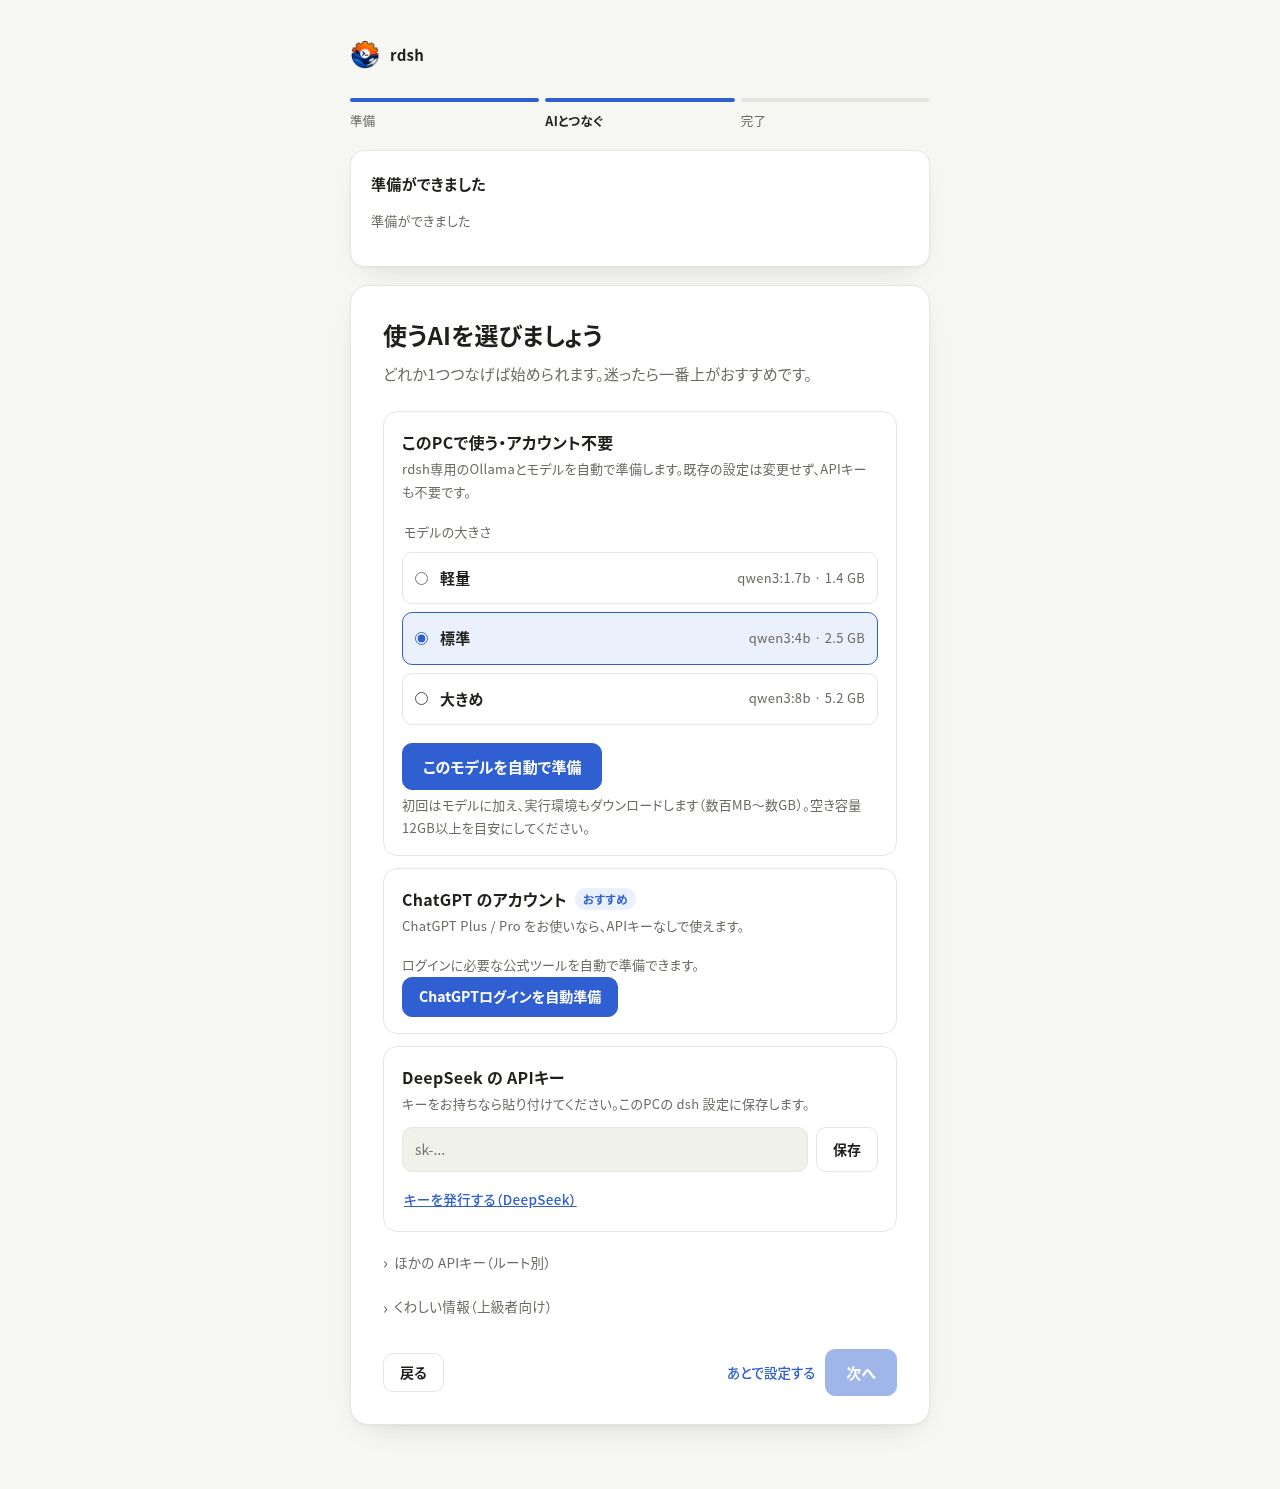
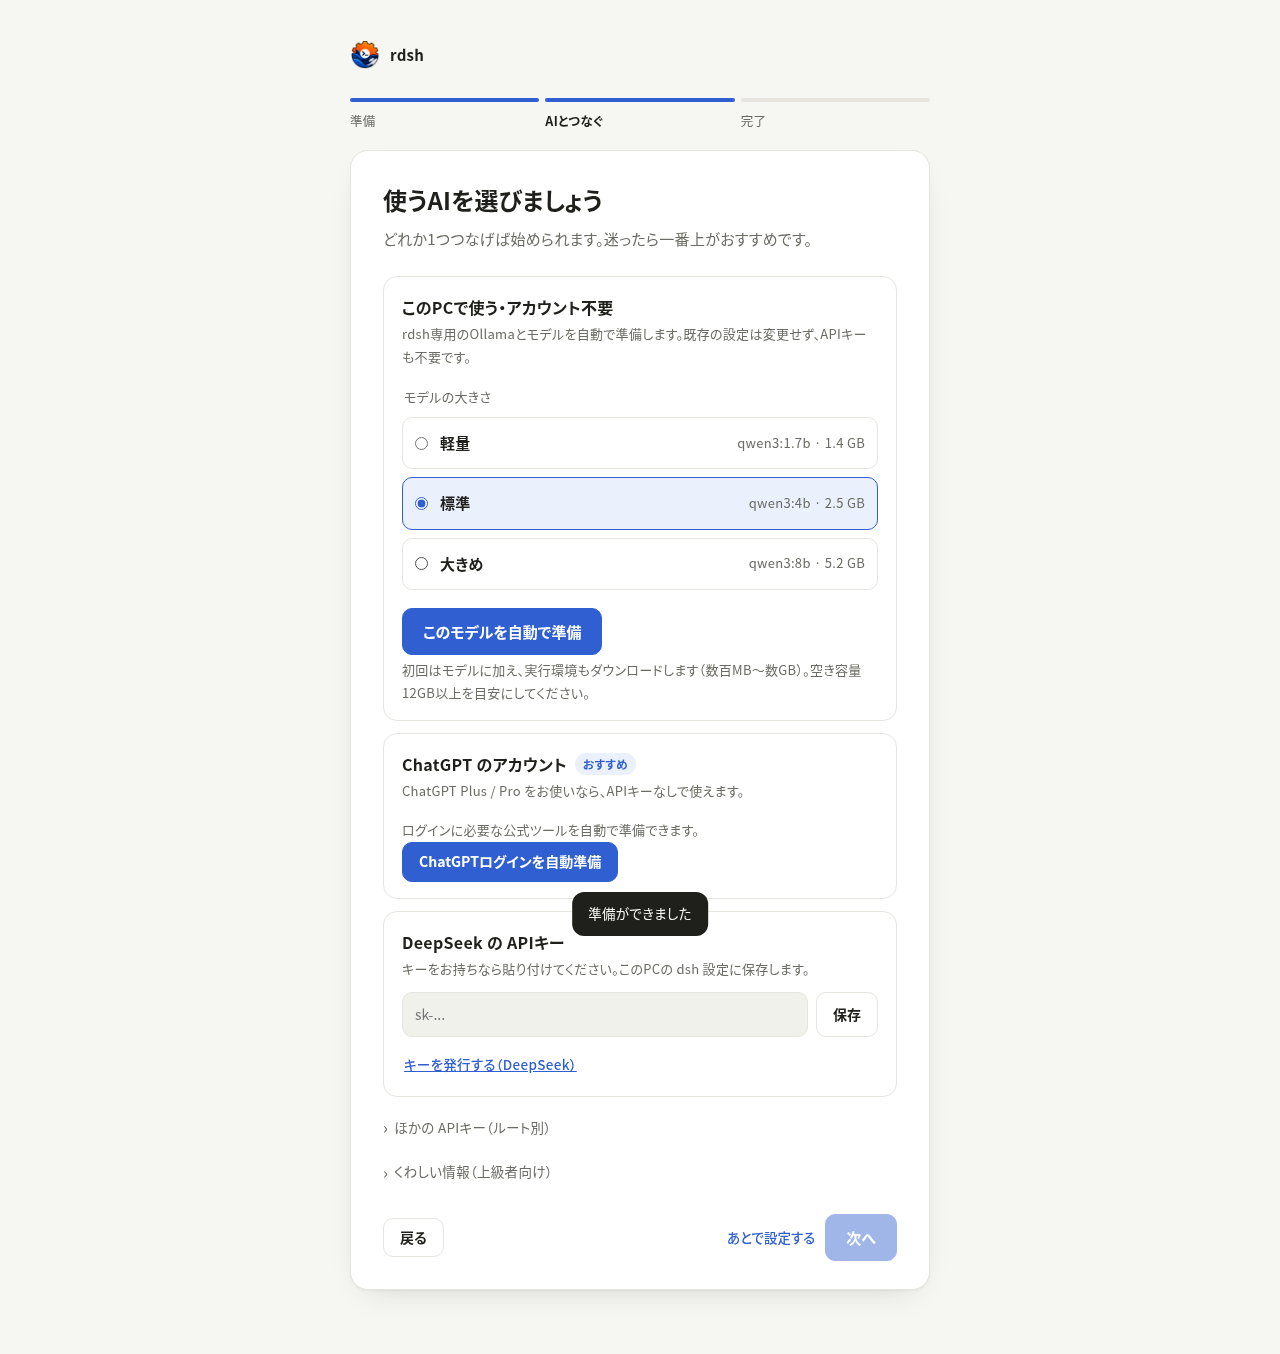
fix: guide fresh installations to the available web profile

diff --git a/src/setup.html b/src/setup.html
@@ -644,6 +644,7 @@ function renderFinish() {
   var starts = $("starts"); starts.replaceChildren();
   $("finish-cmd-hint").hidden = !env.dsh.found;
   $("finish-cmd").hidden = !env.dsh.found;
+  if ($("finish-cmd")) { var code = $("finish-cmd").querySelector("code"); if (code) code.textContent = env.tui ? "rdsh tui" : "rdsh --profile web"; }
   if (!connected) {
     var link = el("button", "primary", t("AIをつなぐ", "Connect an AI", "连接 AI"));
     link.onclick = function () { go("connect"); };
@@ -661,8 +662,8 @@ function renderFinish() {
   var chosenModel = window.rdshProvisionSelection && window.rdshProvisionSelection();
   if (env.desktop && !chosenModel) starts.append(startButton("desktop", t("DeepSeek Harness アプリを開く", "Open the DeepSeek Harness app", "打开 DeepSeek Harness 应用"), t("いちばん簡単です", "The easiest way", "最简单的方式"), true));
   if (env.dsh.found) {
-    if (!chosenModel || chosenModel.profiles.indexOf("tui") >= 0) starts.append(startButton("tui", t("ターミナルで会話をはじめる", "Chat in a terminal", "在终端中对话"), t("Codex や Claude Code と同じ使い方です", "Works like Codex or Claude Code", "用法与 Codex、Claude Code 相同"), !env.desktop || !!chosenModel));
-    if (!chosenModel || chosenModel.profiles.indexOf("web") >= 0) starts.append(startButton("web", t("ブラウザで使う", "Use it in your browser", "在浏览器中使用"), t("画面で操作したい方に", "If you prefer a visual interface", "适合喜欢图形界面的用户"), !!chosenModel && chosenModel.profiles.indexOf("tui") < 0));
+    if (env.tui && (!chosenModel || chosenModel.profiles.indexOf("tui") >= 0)) starts.append(startButton("tui", t("ターミナルで会話をはじめる", "Chat in a terminal", "在终端中对话"), t("Codex や Claude Code と同じ使い方です", "Works like Codex or Claude Code", "用法与 Codex、Claude Code 相同"), !env.desktop || !!chosenModel));
+    if (!chosenModel || chosenModel.profiles.indexOf("web") >= 0) starts.append(startButton("web", t("ブラウザで使う", "Use it in your browser", "在浏览器中使用"), t("画面で操作したい方に", "If you prefer a visual interface", "适合喜欢图形界面的用户"), !env.tui || (!!chosenModel && chosenModel.profiles.indexOf("tui") < 0)));
   }
   var model = (STATUS && STATUS.defaults || []).filter(function (d) { return d.state === "ok"; })[0];
   $("model-line").textContent = model ? t("使うモデル：", "Model: ", "使用模型：") + model.provider + " / " + model.model : "";

diff --git a/src/setup-provision.js b/src/setup-provision.js
@@ -92,7 +92,7 @@
     panel.hidden = !!(ENV && ENV.node && ENV.node.supported && ENV.dsh.found && ENV.pnpm);
     [runtimeButton, localButton, cloudButton, cloudSelect].forEach(function (button) { button.disabled = running || busy; });
     fieldset.disabled = running || busy;
-    progressBox.hidden = !running && !job.error && !job.ready;
+    progressBox.hidden = !running && !job.error;
     progress.hidden = !running;
     progressLabel.textContent = t.apply(null, phases[job.phase] || phases.preparing);
     cancel.hidden = !running; cancel.disabled = job.phase === "cancelling"; retry.hidden = running || !job.error || !lastRequest;
@@ -141,6 +141,7 @@
     if (state && state.job && state.job.running) poll = setTimeout(refresh, 1000);
     else if (state && state.job && state.job.ready && lastRequest) {
       var completed = lastRequest; lastRequest = null;
+      toast(t("準備ができました", "Ready", "准备就绪"));
       await loadEnv(); await load();
       if (completed.action === "codex") {
         try { await api("POST", "/api/login", {tool:"codex"}); pendingLogin = "codex"; renderOptions(); }

diff --git a/src/setup_wizard.rs b/src/setup_wizard.rs
@@ -30,6 +30,7 @@ pub fn env_json() -> String {
             "supported": node_major.is_some_and(|m| m >= 22),
         },
         "npm": crate::auth::command_on_path("npm"),
+        "tui": std::path::Path::new(&crate::inspect::dsh_home()).join("profiles/tui").is_dir(),
         "pnpm": crate::auth::command_on_path("pnpm") || crate::setup_models::root().is_ok_and(|p|p.join("bin").join(if cfg!(windows){"pnpm.cmd"}else{"pnpm"}).is_file()),
         "codex": crate::auth::command_on_path("codex"),
         "opencode": crate::auth::command_on_path("opencode"),
@@ -87,6 +88,13 @@ pub fn start_chat(kind: &str) -> anyhow::Result<()> {
                 .map(|_| ())
         }
         "tui" | "web" => {
+            anyhow::ensure!(
+                kind != "tui"
+                    || std::path::Path::new(&crate::inspect::dsh_home())
+                        .join("profiles/tui")
+                        .is_dir(),
+                "terminal profile is not installed; choose the browser option"
+            );
             anyhow::ensure!(
                 crate::passthrough::find_original_dsh().is_some(),
                 "DeepSeek Harness (dsh) is not installed"

diff --git a/docs/evidence/one-command-install/README.md b/docs/evidence/one-command-install/README.md
@@ -1,6 +1,6 @@
 # 初回の自動準備の検証
 
-2026-11-04 に Linux x64 で検証しました。画面は日本語、1280px と 390px 幅です。
+2026-11-04 に Linux x64 で検証しました。画面は日本語、1280px と 390px 幅です。変更前の画面は main の b6aac05b を使っています。
 
 ## 実配布物の確認
 
@@ -19,15 +19,17 @@
 追加で専用 Ollama のチャット API に短い入力を送り、ローカルモデルから `OK` の完了応答を確認しました。
 クラウドへの推論リクエストは送っていません。
 
+DSH alpha.3 の新規環境では TUI プロファイルがないことも確認しました。未導入の TUI を起動ボタンで案内せず、Web を優先します。
+
 ## 自動テスト
 
-- `sh scripts/check.sh quick`：fmt / clippy 警告ゼロ / Rust 1229 tests。
+- `sh scripts/check.sh quick`：fmt / clippy 警告ゼロ / Rust 1233 tests。
 - `tests/regress.sh`：117 checks、および doctor のパイプ切断テスト。
 - リリース関連 Python：154 tests。テスト用 Git リポジトリのみ tag.gpgsign=false を指定。
 - `scripts/crate-release.py check`：Windows インストーラを含むコンパイル入力が梱包されています。
 - `tests/runtime-bootstrap.sh`：pnpm 未導入、空白・引用符を含む HOME、native-only、改ざん Node アーカイブの拒否。
 - Node のカタログ / セキュリティ境界テスト：16 pass、実ランタイム用の未指定 fixture は 6 skip。
-- `tests/e2e/setup-provision.mjs`：12 checks。二重開始防止、進行状況、中止・再試行、
+- `tests/e2e/setup-provision.mjs`：16 checks。二重開始防止、進行状況、中止・再試行、
   モデル選択、既存接続の自動選択、プロファイルに応じた起動ボタン、390px 幅の横あふれなし。
 
 ブラウザテストは実際の HTML / JavaScript と模擬 API 応答を使います。

diff --git a/docs/SETUP.md b/docs/SETUP.md
@@ -241,33 +241,17 @@ rdsh plugins install --recommended=starter
 
 ---
 
-## 6. 会話を始める（どちらで使うか選ぶ）
+## 6. 会話を始める
 
-まず診断を流します。対話端末では、最後に **Web UI かターミナルか**を聞かれます。
-
-```sh
-rdsh doctor
-```
-
-```text
-[rdsh] 次の一手
-[rdsh]   同梱プラグインを補う: rdsh plugins install
-[rdsh] どこで使いますか？
-[rdsh]   1) Web UI（ブラウザ。自動で開きます）
-[rdsh]   2) ターミナル（この画面のまま）
-[rdsh] 選択 [1] 
-```
-
-- **1** … ブラウザで開きます（`http://127.0.0.1:3080`）
-- **2** … この端末のまま TUI が始まります
-- **そのまま Enter** … 画面のある機械なら Web UI、サーバーならターミナル
-
-コマンドを直接叩いても同じです。
+セットアップ完了画面で「ブラウザで使う」を押します。コマンドから開く場合はこちらです。
 
 ```sh
-rdsh --profile web        # ブラウザ（http://127.0.0.1:3080）
-rdsh tui                  # ターミナル
+rdsh --profile web
 ```
+
+既存の TUI プロファイルがある場合は、完了画面のターミナル起動か `rdsh tui` も使えます。
+DSH 0.2.2-alpha.3 は標準の TUI プロファイルを持たないため、新規環境ではブラウザを案内します。
+TUI の過去の導入例と互換性上の注意は [TUI-SETUP.md](TUI-SETUP.md) を参照してください。
 
 ### 成果物（ファイル）の保存
 
